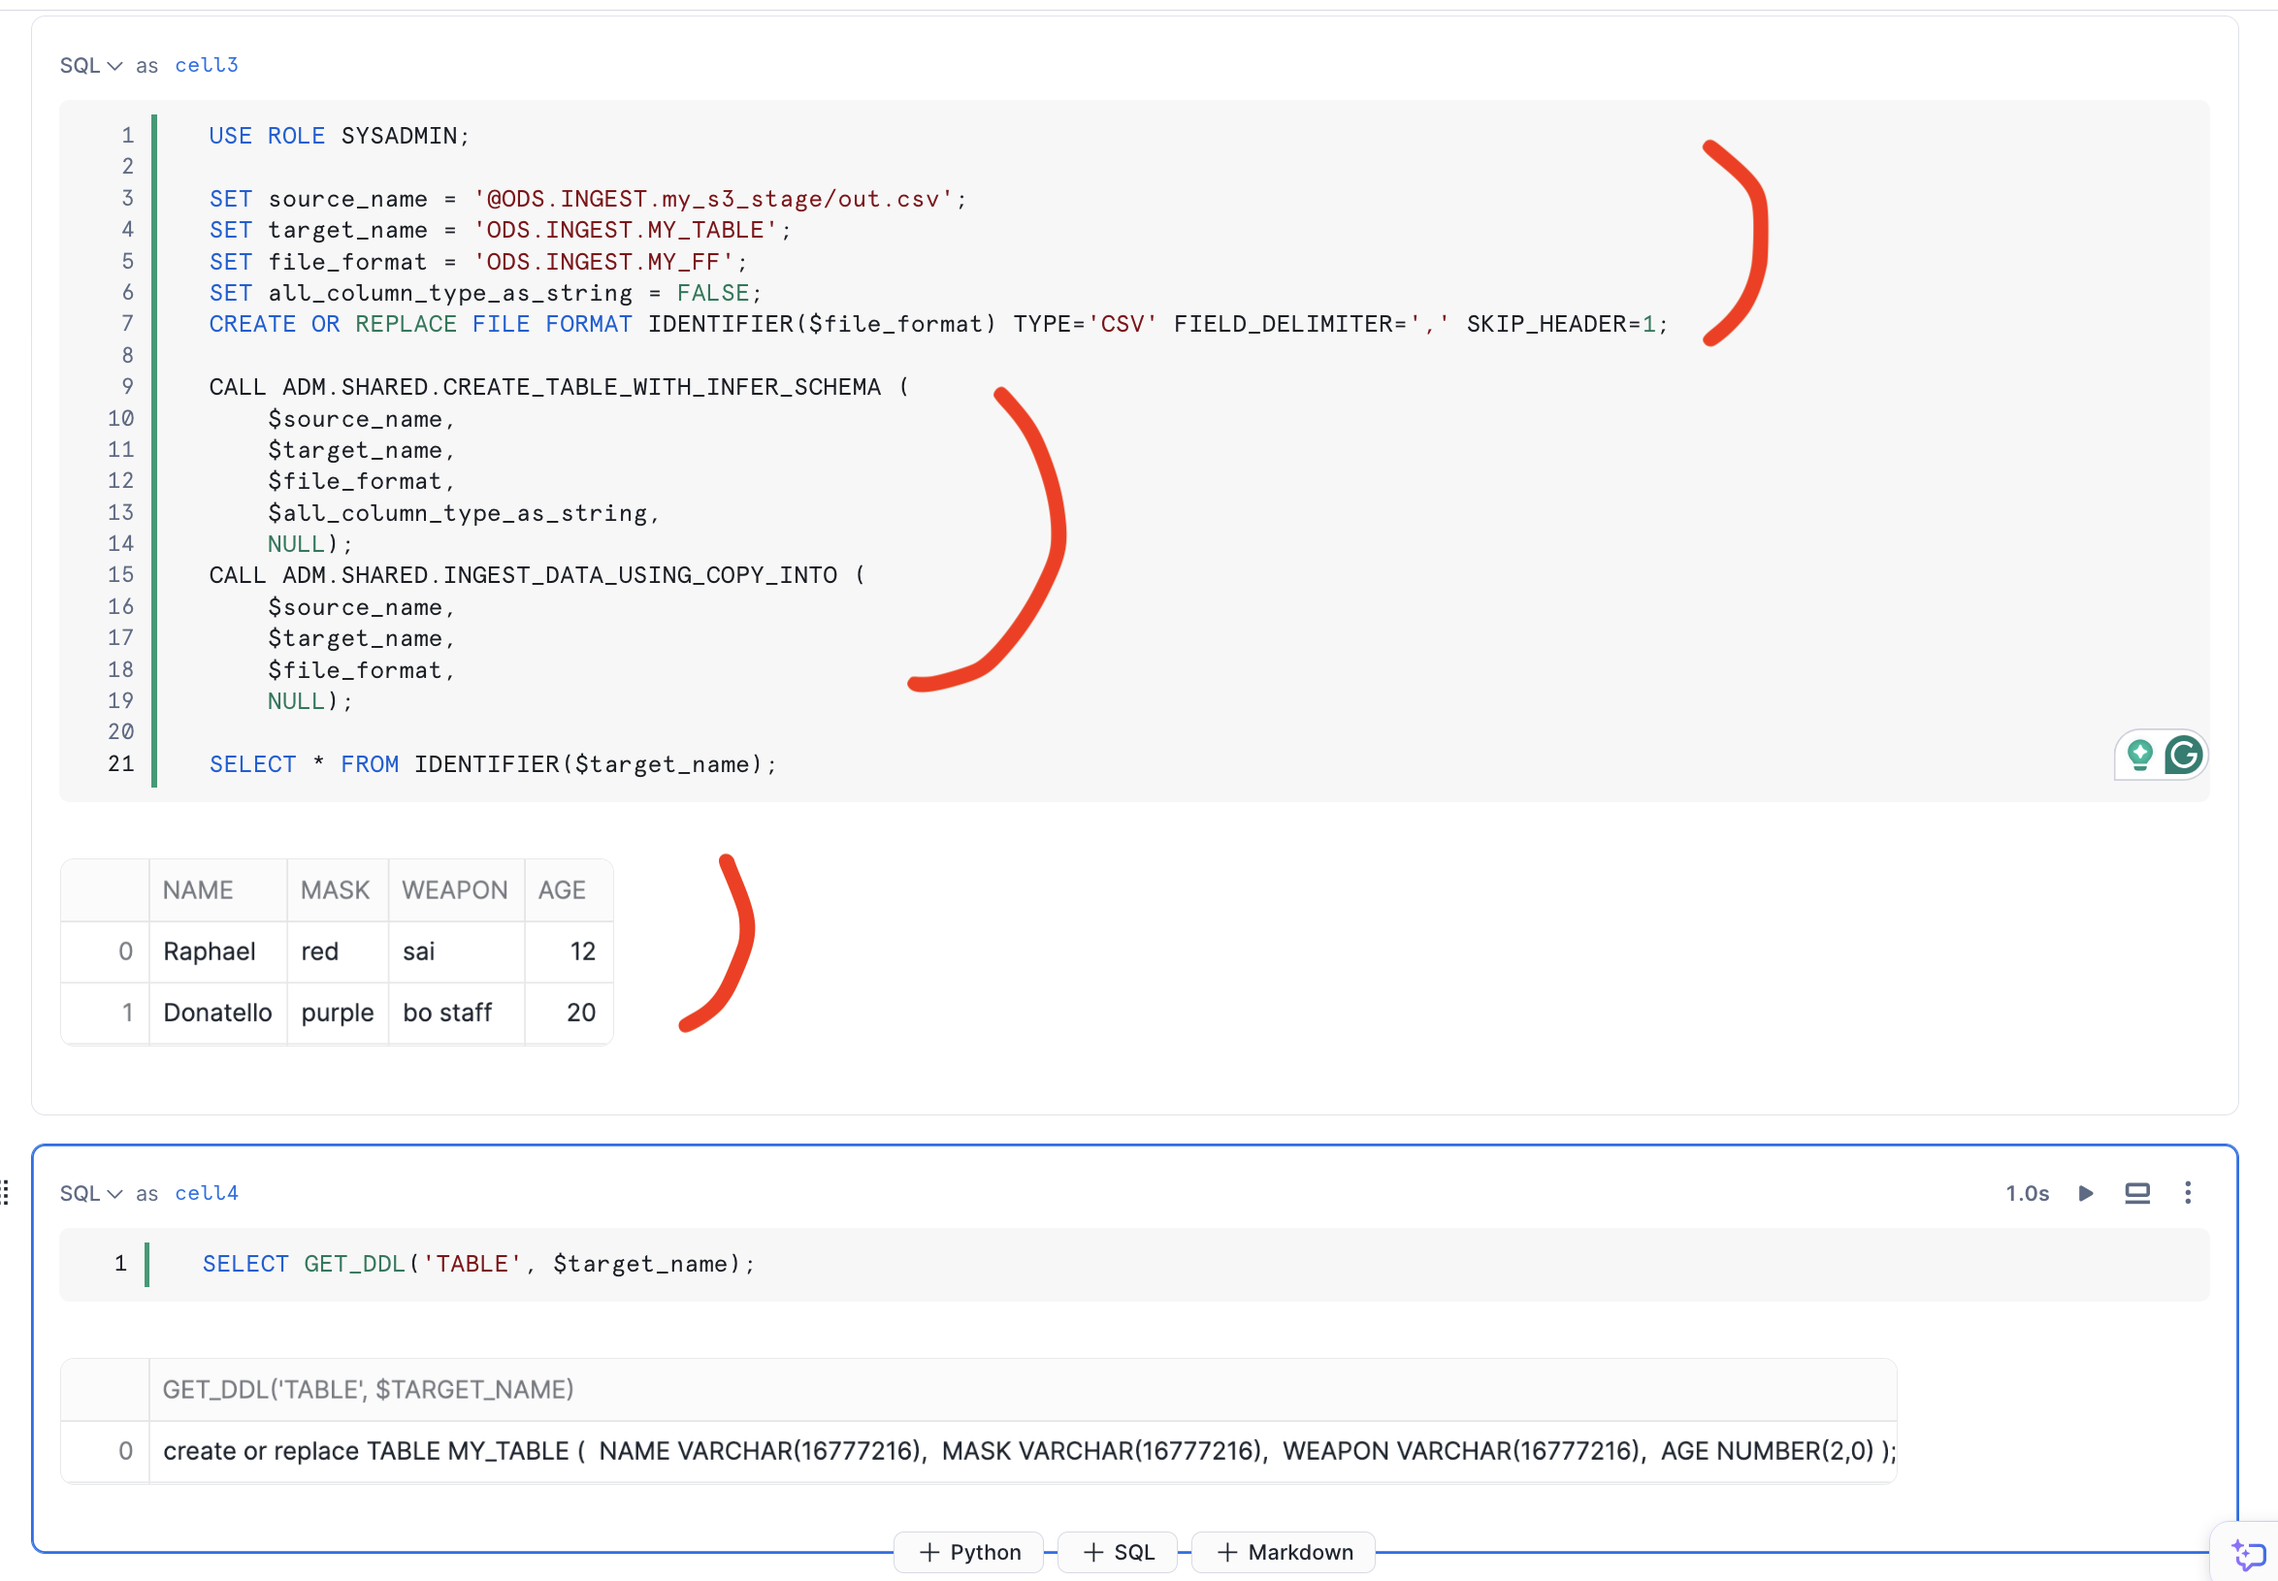
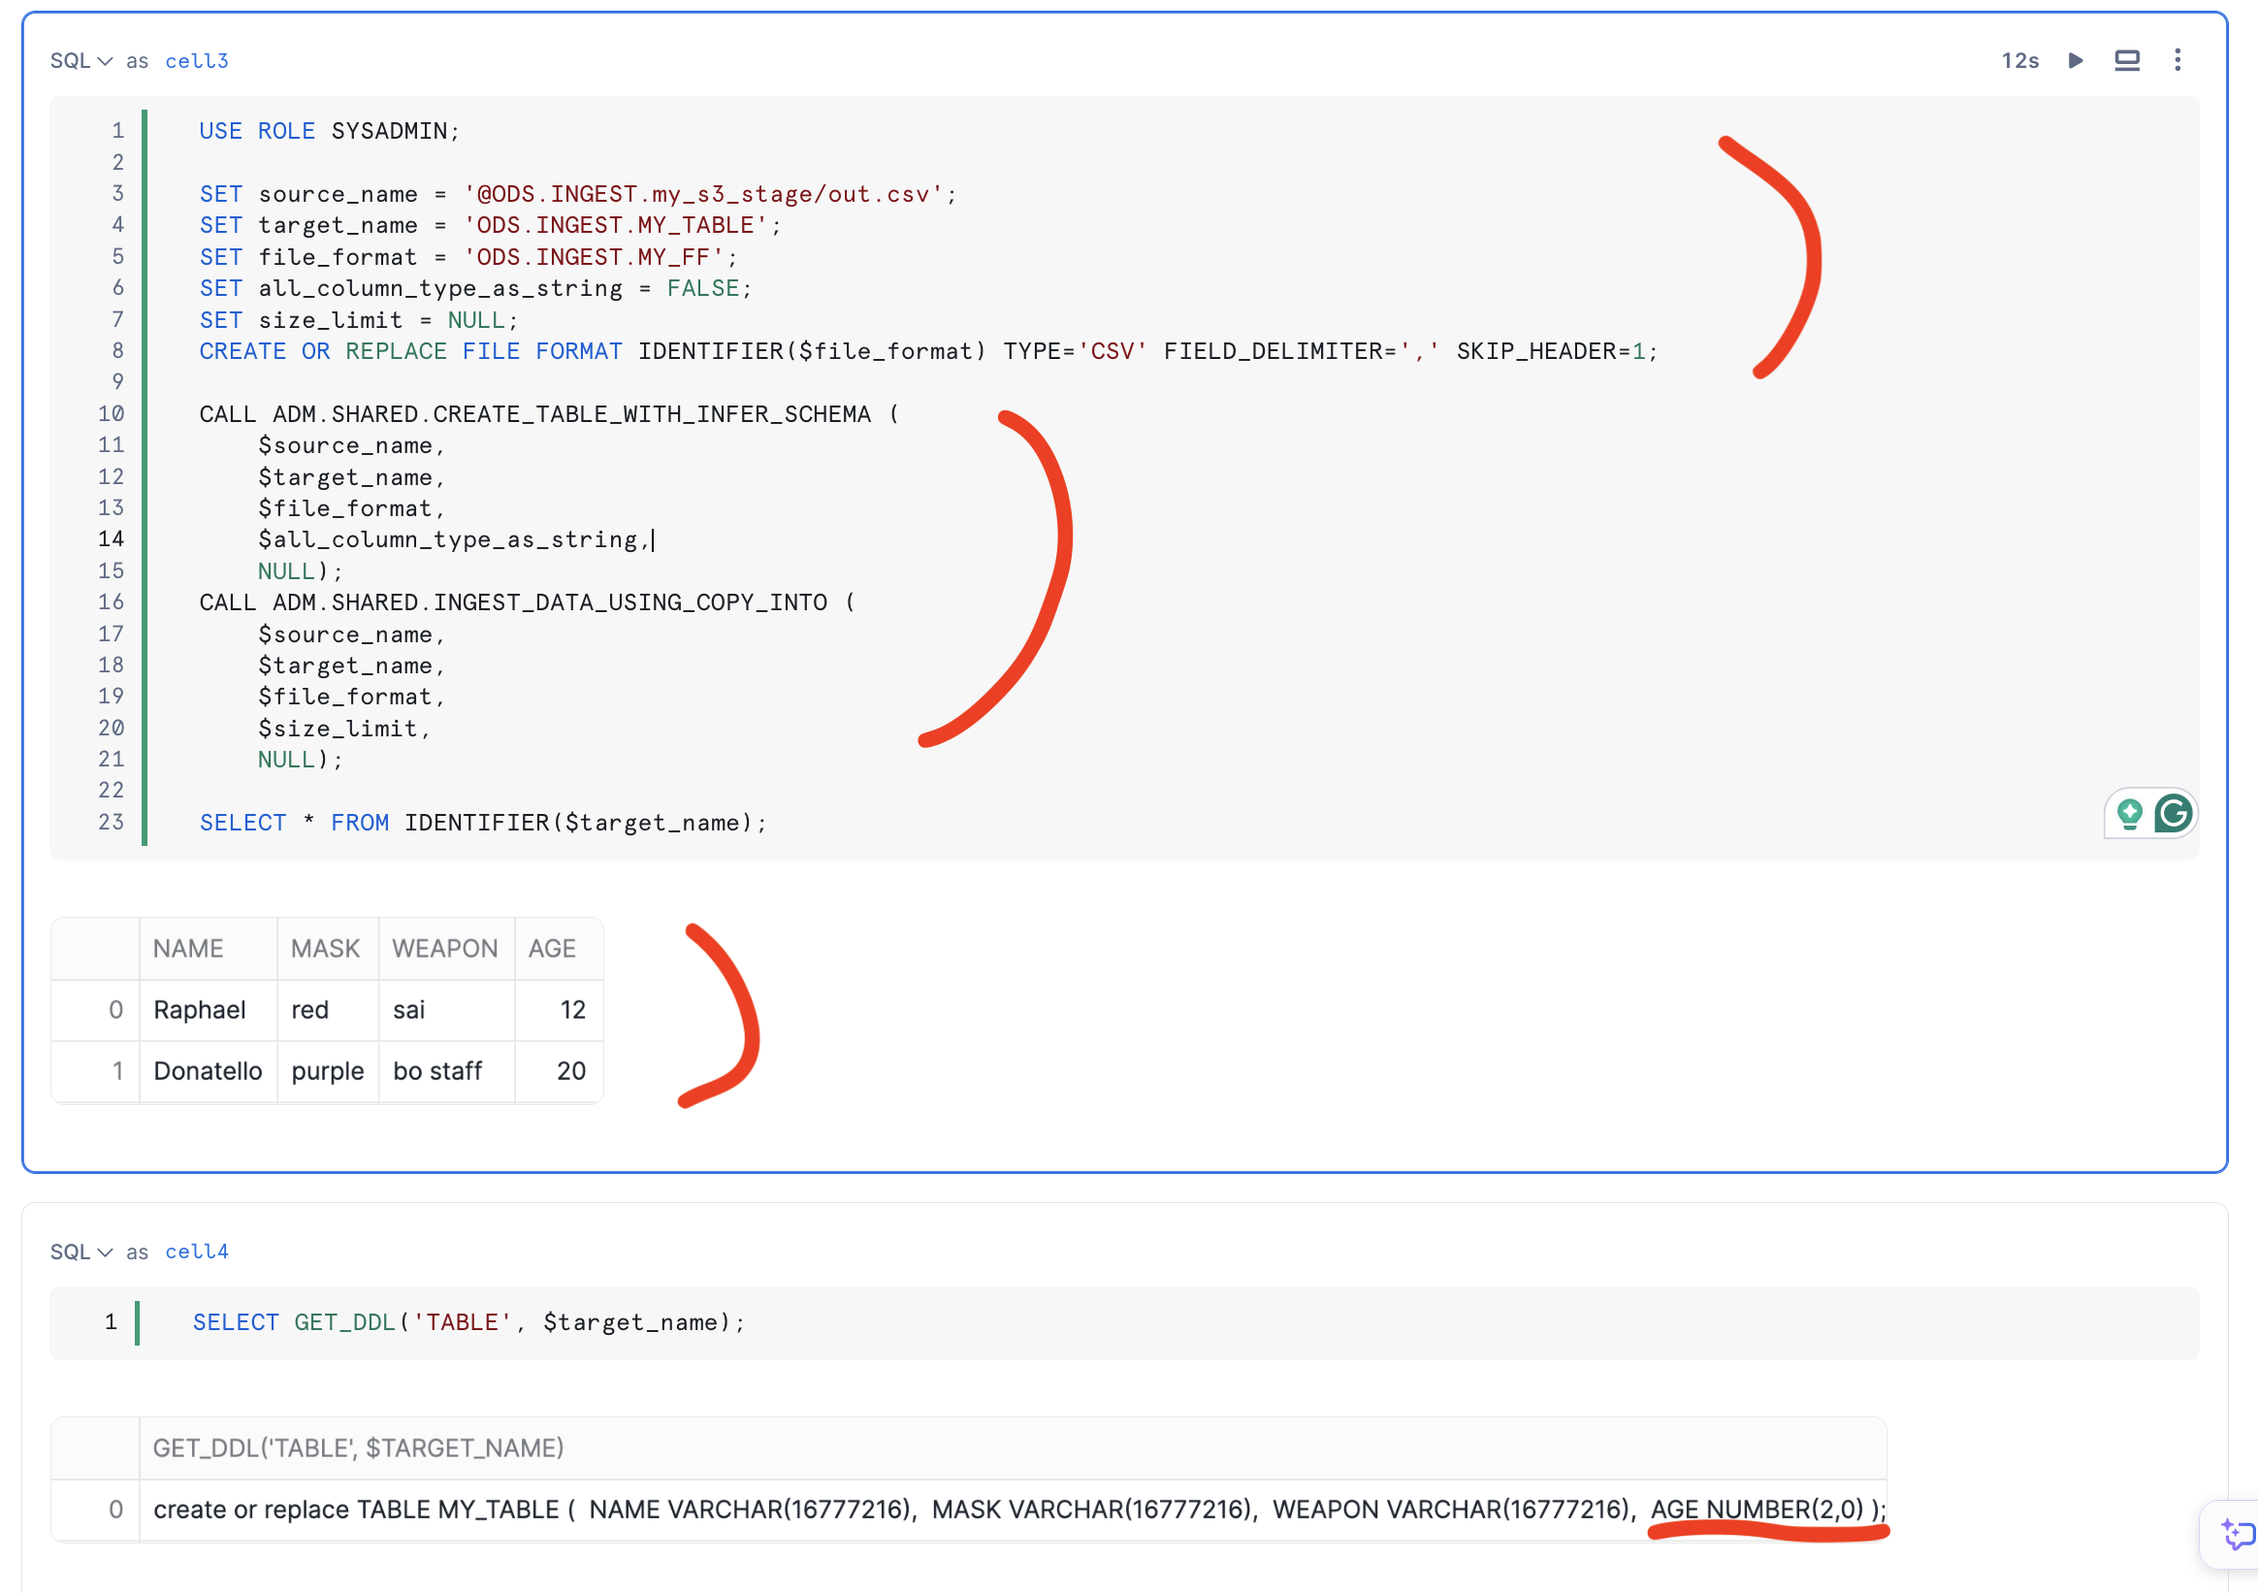
final version update

diff --git a/content/post/2024-02-12-ingest-data-to-snowflake-no-struggle-on-table-definition/index.md b/content/post/2024-02-12-ingest-data-to-snowflake-no-struggle-on-table-definition/index.md
@@ -13,13 +13,14 @@ draft: no
 ---
 One thing I learned from my work is that even though having proper table definition is good for the data standardization, sometimes we just want to have the data be ingested to Snowflake without worrying about if all the column types are 100% correct or not. 
 
-The following is the code I use for this case which can help me easily ingest data into snowflake with only 4 main required parameters, `SOURCE_NAME`, `TARGET_NAME`, `FILE_FORMAT`, and `ALL_COLUMN_TYPE_AS_STRING`. Sometimes, when the dataset is large, it can be time consuming on infering schema. If we just want to create a table from the dataset and do not care about the column type, then we can set `ALL_COLUMN_TYPE_AS_STRING` as TRUE. 
+The following is the code I use for this case which can help me easily ingest data into snowflake with only 4 main required parameters, `SOURCE_NAME`, `TARGET_NAME`, `FILE_FORMAT`, and `ALL_COLUMN_TYPE_AS_STRING`. Sometimes, when the dataset is large, it can be time consuming on infering schema. If we just want to create a table from the dataset and do not care about the column type, then we can set `ALL_COLUMN_TYPE_AS_STRING` as TRUE. And, if we do not want to load all data and want to limit by size, then we can set `SIZE_LIMIT` as not null. 
 
 ```sql
 SET source_name = '@ODS.INGEST.my_s3_stage/out.csv';
 SET target_name = 'ODS.INGEST.MY_TABLE';
 SET file_format = 'ODS.INGEST.MY_FF';
-SET all_column_type_as_string = TRUE;
+SET all_column_type_as_string = FALSE;
+SET size_limit = NULL;
 CREATE OR REPLACE FILE FORMAT IDENTIFIER($file_format) TYPE='CSV' FIELD_DELIMITER=',' SKIP_HEADER=1;
 
 CALL ADM.SHARED.CREATE_TABLE_WITH_INFER_SCHEMA (
@@ -32,12 +33,14 @@ CALL ADM.SHARED.INGEST_DATA_USING_COPY_INTO (
     $source_name, 
     $target_name, 
     $file_format, 
+    $size_limit,
     NULL);
 
 SELECT * FROM IDENTIFIER($target_name);
 ```
 
 <img src="./imgs/no_meta_columns.png" alt="no_meta_columns"/>
+<img src="./imgs/no_meta_columns_all_string.png" alt="no_meta_columns_all_string"/>
 
 ```sql
 SET metadata_column_definition = 'ADD IF NOT EXISTS DL_RECORD_ID INT, IF NOT EXISTS FILE_NAME STRING, IF NOT EXISTS INS_TS TIMESTAMP_LTZ'; 
@@ -140,6 +143,7 @@ CREATE OR REPLACE PROCEDURE ADM.SHARED.INGEST_DATA_USING_COPY_INTO (
     SOURCE_NAME STRING,     
     TARGET_NAME STRING, 
     FILE_FORMAT STRING, 
+    SIZE_LIMIT INTEGER, -- NULL, if do not want to limit the load size
     METADATA_COLUMN_VALUES STRING) -- NULL, if no columns needed to be added 
 RETURNS TABLE()
 LANGUAGE SQL
@@ -184,6 +188,12 @@ BEGIN
     ELSE
         SQL_CP := 'COPY INTO ' || :TARGET_NAME || ' FROM ( SELECT ' || :SQL_COLUMN_POSTION_STRING || ' FROM ' || :SOURCE_NAME || '(FILE_FORMAT=> ' || :FILE_FORMAT || '))';
     END IF;    
+
+    IF (SIZE_LIMIT IS NOT NULL) THEN
+        SQL_CP := SQL_CP || ' SIZE_LIMIT = ' || :SIZE_LIMIT;
+    END IF;
+    
+
     RES := (EXECUTE IMMEDIATE :SQL_CP);
 
     RETURN TABLE(RES);
